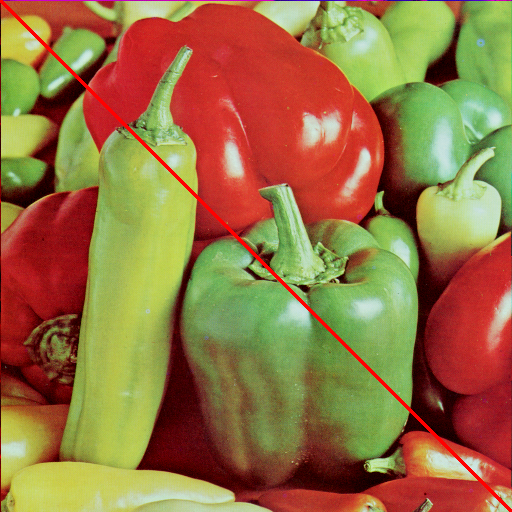
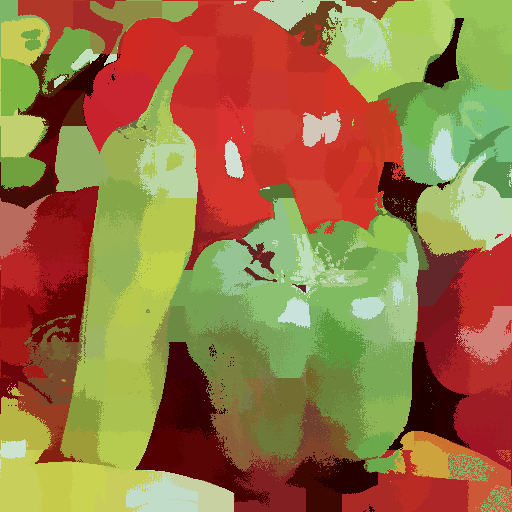
implement SLIC

diff --git a/Python/slic.py b/Python/slic.py
@@ -1,0 +1,124 @@
+# Simple Linear Iterative Clustering (SLIC)
+# https://darshita1405.medium.com/superpixels-and-slic-6b2d8a6e4f08
+# https://www.epfl.ch/labs/ivrl/research/slic-superpixels/
+
+from PIL import Image, ImageDraw
+import math
+import numpy as np
+from typing import List, Tuple, NamedTuple
+
+class SuperpixelClusterCenter(NamedTuple):
+    lab: Tuple[float, float, float]
+    x: float
+    y: float
+
+
+class SLICImage:
+    image: Image.Image
+    draw: ImageDraw.ImageDraw
+
+    def __init__(self, image: Image.Image, draw: ImageDraw.ImageDraw):
+        self.image = image
+        self.pixels = image.load()
+        self.draw = draw
+        self.num_pixels = image.size[0] * image.size[1]
+
+    def slic(self, superpixel_ratio=100, num_iterations=10, compactness=10):
+        num_superpixels = self.num_pixels / superpixel_ratio
+        w, h = self.image.size
+        lab = rgb2lab(np.array(self.image).astype(np.float32))
+
+        superpixel_size = self.num_pixels / num_superpixels
+
+        S = int(superpixel_size)
+        grid_interval = int(math.sqrt(superpixel_size))
+
+        centers: List[SuperpixelClusterCenter] = []
+        for y in range(S//2, h, S):
+            for x in range(S//2, w, S):
+                centers.append(SuperpixelClusterCenter(lab[y,x], x, y))
+        
+        labels = -np.ones((h, w), dtype=np.int32)
+        distances = np.full((h, w), np.inf, dtype=np.float32)
+
+        for iteration in range(num_iterations):
+            for k, ((l, a, b), cx, cy) in enumerate(centers):
+                y0, y1 = max(0, int(cy - S)), min(h, int(cy + S))
+                x0, x1 = max(0, int(cx - S)), min(w, int(cx + S))
+                # ChatGPT wrote this part, I don't understand numpy
+                # It's calculating the distances from every pixel to the cluster
+                region = lab[y0:y1, x0:x1]
+                yy, xx = np.mgrid[y0:y1, x0:x1]
+                color_dist = np.sqrt((region[...,0]-l)**2 + (region[...,1]-a)**2 + (region[...,2]-b)**2)
+                spatial_dist = np.sqrt((yy-cy)**2 + (xx-cx)**2)
+                D = np.sqrt((color_dist/compactness)**2 + (spatial_dist/S)**2)
+                mask = D < distances[y0:y1, x0:x1] # Set of pixels where Ck is new closest
+                distances[y0:y1, x0:x1][mask] = D[mask]
+                labels[y0:y1, x0:x1][mask] = k
+                #endgpt
+            # Move each cluster center to the average of the pixels in that cluster
+            for cluster_index in range(len(centers)):
+                ys, xs = np.where(labels == k)
+                if len(ys)==0: 
+                    continue # cluster is empty, avoid divide by 0
+                color_mean = lab[ys, xs].mean(axis=0)
+                centers[cluster_index] = SuperpixelClusterCenter(
+                    color_mean,
+                    xs.mean(),
+                    ys.mean()
+                )
+
+        # Draw random colors for segments
+        return labels, centers
+
+    @staticmethod
+    def show_as_random_colors(labels):
+        #gpt
+        np.random.seed(0)
+        num_clusters = labels.max()+1
+        colors = np.random.randint(0, 255, (num_clusters, 3), dtype=np.uint8)
+        vis = colors[labels]
+        return Image.fromarray(vis)
+        #endgpt
+
+    def draw_splots(self, labels):
+        overlay = Image.new('RGBA', self.image.size, (0,0,0,0))
+        for k in range(labels.max()+1):
+            ys, xs = np.where(labels == k)
+            cx, cy = int(xs.mean()), int(ys.mean())
+            center_color = self.pixels[cx,cy]
+            print(k, cx, cy)
+            print(center_color) 
+            mask = (labels == k).astype(np.uint8) * 255
+            mask_image = Image.fromarray(mask, mode='L')
+            colored_overlay = Image.new('RGBA', self.image.size, center_color)
+            overlay.paste(colored_overlay, (0, 0), mask_image)
+
+        self.image.paste(overlay, (0, 0), overlay)
+
+def rgb2lab(rgb):
+    # Function written by chatGPT
+    # Converts from rgb color space to CIELAB (lightness, color a, color b) color space
+
+    # Very rough conversion, enough for SLIC demo
+    rgb = rgb / 255.0
+    mask = rgb > 0.04045
+    rgb[mask] = np.power((rgb[mask] + 0.055) / 1.055, 2.4)
+    rgb[~mask] /= 12.92
+    rgb *= 100
+
+    # sRGB D65 conversion
+    X = rgb[...,0]*0.4124 + rgb[...,1]*0.3576 + rgb[...,2]*0.1805
+    Y = rgb[...,0]*0.2126 + rgb[...,1]*0.7152 + rgb[...,2]*0.0722
+    Z = rgb[...,0]*0.0193 + rgb[...,1]*0.1192 + rgb[...,2]*0.9505
+
+    X /= 95.047; Y /= 100.0; Z /= 108.883
+    XYZ = np.stack([X,Y,Z], axis=-1)
+    mask = XYZ > 0.008856
+    XYZ[mask] = np.cbrt(XYZ[mask])
+    XYZ[~mask] = (7.787 * XYZ[~mask]) + (16/116)
+
+    L = (116 * XYZ[...,1]) - 16
+    a = 500 * (XYZ[...,0] - XYZ[...,1])
+    b = 200 * (XYZ[...,1] - XYZ[...,2])
+    return np.stack([L,a,b], axis=-1)

diff --git a/Python/main.py b/Python/main.py
@@ -1,13 +1,16 @@
 from PIL import Image, ImageDraw
 
+from slic import SLICImage
+
 filename = "Inputs/peppers.png"
 outputname = "Outputs/peppers.png"
 with Image.open(filename) as img:
     img.load()
     draw = ImageDraw.Draw(img)
+    slic_image = SLICImage(img, draw)
+    labels, centers = slic_image.slic(superpixel_ratio=36, num_iterations=20, compactness=13)
+    
+    slic_image.draw_splots(labels)
+    img.show()
 
-c = "#ff0000"
-draw.line([(0,0), img.size], fill=c, width=3)
-
-img.show()
 img.save(outputname)
